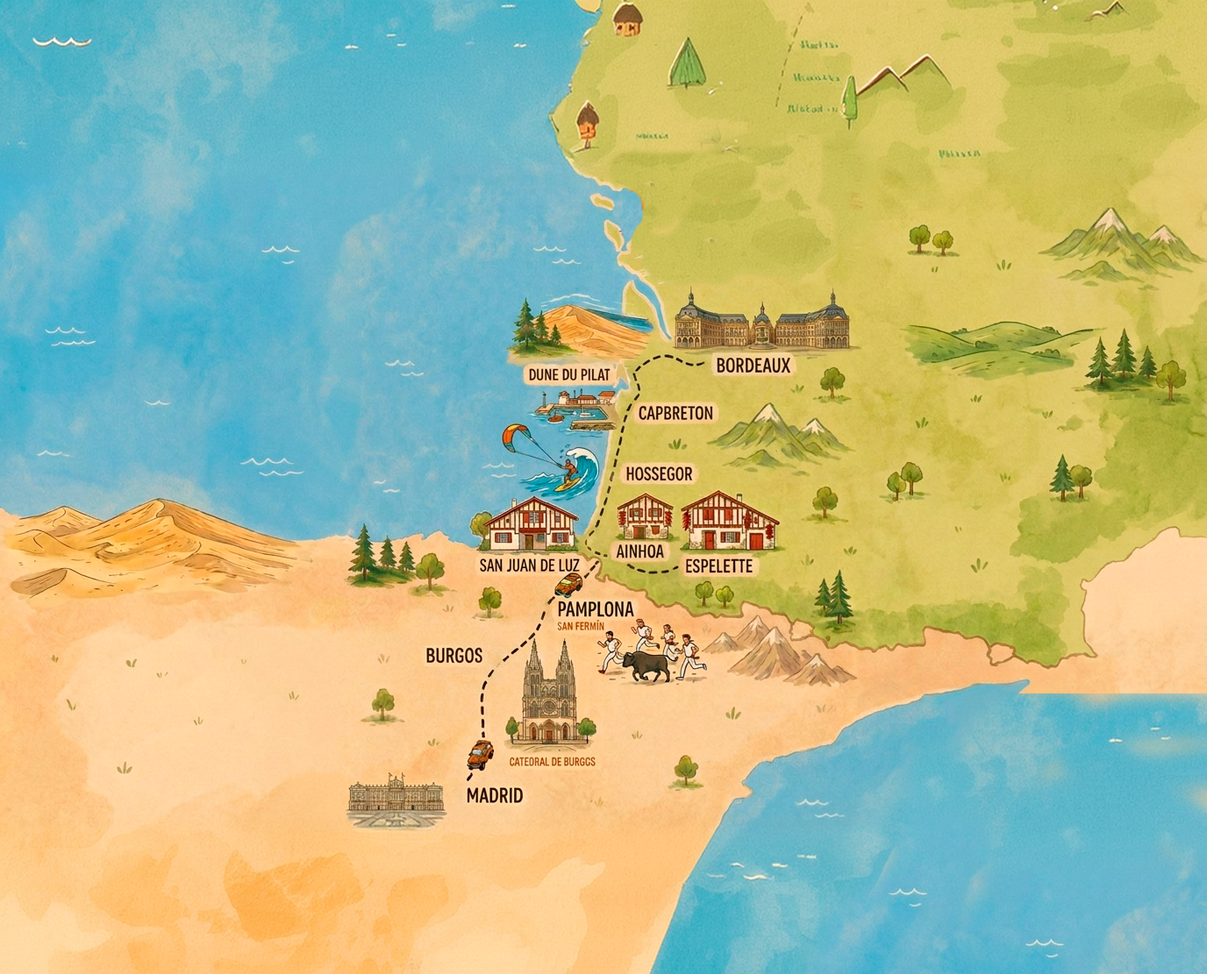
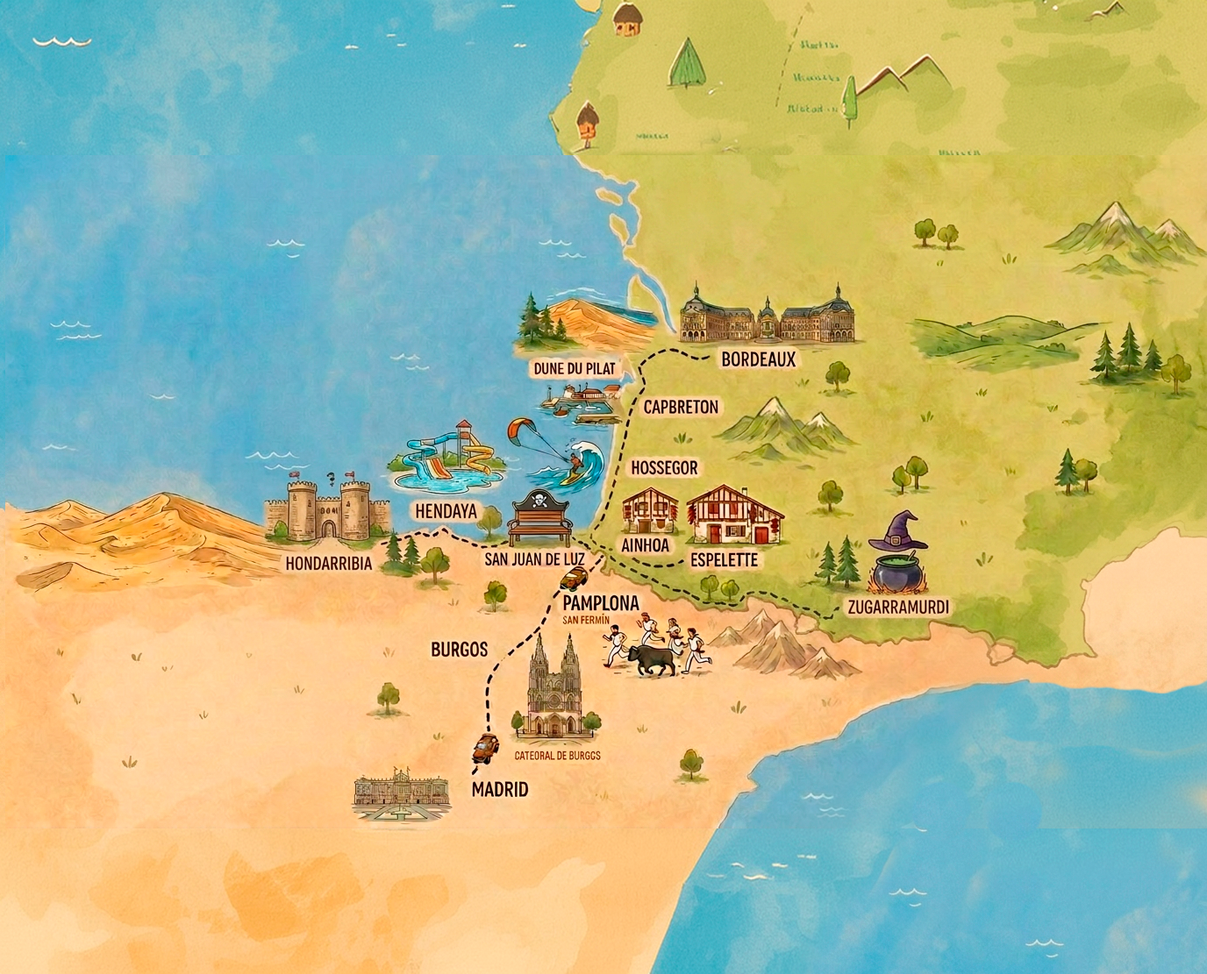
Mapa nuevo (13 lugares): +Hondarribia, Hendaya, Zugarramurdi; historias largas y 5+ actividades; premio red de voley 40/80; furgo en ruta; como llegar

diff --git a/index.html b/index.html
@@ -554,36 +554,57 @@ const PERSONAJES = [
    Orden del viaje: Madrid, Burgos, Pamplona, San Juan de Luz, Ainhoa, Espelette,
    Hossegor, Capbreton, Dune du Pilat, Bordeaux. */
 const PARADAS = [
-  {n:1, id:"madrid", nombre:"Madrid", pais:"España 🇪🇸", x:40, y:82, emoji:"👑", img:"img/parada-madrid.png",
-   historia:"El punto de salida. Capital de España desde 1561, cuando Felipe II trasladó aquí la corte. Su símbolo, el Palacio Real, es de los más grandes de Europa.",
-   actividades:[["🏰","Visitar el Palacio Real y ver el cambio de guardia."],["🚪","La Puerta de Alcalá y el Retiro."],["🍫","Chocolate con churros."]]},
-  {n:2, id:"burgos", nombre:"Burgos", pais:"España 🇪🇸", x:44, y:70, emoji:"⛪", img:"img/parada-burgos.png",
-   historia:"Su Catedral gótica es Patrimonio de la Humanidad y guarda la tumba del Cid Campeador, el caballero más legendario de España.",
-   actividades:[["⛪","Alucinar con las agujas de la Catedral de Burgos."],["🦴","Museo de la Evolución Humana (¡Atapuerca!)."],["🌭","Probar la morcilla de Burgos."]]},
-  {n:3, id:"pamplona", nombre:"Pamplona", pais:"España 🇪🇸", x:50, y:63, emoji:"🐂", img:"img/parada-pamplona.png",
-   historia:"Fundada por el general romano Pompeyo. Es mundialmente famosa por las fiestas de San Fermín (6–14 de julio) y sus encierros de toros por las calles.",
-   actividades:[["🐂","Ver la plaza y las calles del encierro de San Fermín."],["🧱","Pasear por las murallas y el casco viejo."],["🍢","Ir de pintxos por la calle Estafeta."]]},
-  {n:4, id:"sanjuan", nombre:"San Juan de Luz", pais:"Francia 🇫🇷", x:42, y:53, emoji:"🏴☠", img:"img/pirata.png",
+  {n:1, id:"madrid", nombre:"Madrid", pais:"España 🇪🇸", x:39, y:82, emoji:"👑", img:"img/parada-madrid.png",
+   historia:"<p>Madrid es el punto de salida de la aventura y la capital de España desde <b>1561</b>, cuando el rey <b>Felipe II</b> trasladó aquí la corte. Antes fue una pequeña fortaleza musulmana llamada <b>Mayrit</b>, levantada en el siglo IX junto al río Manzanares para vigilar la sierra. De aquel nombre árabe viene el de la ciudad.</p><div class='destacado'>“La única gran capital europea que nació como castillo de frontera”</div><p>Su gran símbolo es el <b>Palacio Real</b>, el palacio más grande de Europa Occidental, ¡con más de 3.400 habitaciones! Los reyes ya no viven en él, pero se usa para actos oficiales. A su lado están la Catedral de la Almudena y la Plaza de Oriente. En el corazón de la ciudad late la <b>Puerta del Sol</b>, con el reloj de las campanadas de Nochevieja y el ‘kilómetro cero’ de todas las carreteras de España.</p><p>Madrid presume de uno de los mejores museos del mundo, el <b>Prado</b>, y de un pulmón verde enorme, el parque de <b>El Retiro</b>, con un estanque para montar en barca. Su escudo es <b>el Oso y el Madroño</b>, que tiene su estatua en Sol. Los madrileños son famosos por su ambiente, sus terrazas y por no dormir casi nunca: aquí la vida sigue también de noche.</p>",
+   actividades:[["🏰","Visitar el Palacio Real y ver el cambio de guardia."],["🖼","Descubrir cuadros gigantes en el Museo del Prado."],["🚣","Montar en barca en el estanque de El Retiro."],["🐻","Buscar la estatua del Oso y el Madroño en la Puerta del Sol."],["🍫","Merendar chocolate con churros en San Ginés."],["🌭","Probar un bocata de calamares en la Plaza Mayor."]]},
+
+  {n:2, id:"burgos", nombre:"Burgos", pais:"España 🇪🇸", x:46, y:71, emoji:"⛪", img:"img/parada-burgos.png",
+   historia:"<p>Burgos fue durante siglos una de las ciudades más importantes de España. Nació en el año <b>884</b> como fortaleza para defender la frontera y llegó a ser <b>capital del reino de Castilla</b>. Por aquí pasa el <b>Camino de Santiago</b>, así que desde la Edad Media ha visto desfilar a miles de peregrinos.</p><div class='destacado'>“La ciudad del Cid y de una catedral de encaje de piedra”</div><p>Su joya es la <b>Catedral de Santa María</b>, una maravilla del gótico declarada <b>Patrimonio de la Humanidad</b>. Tardó siglos en construirse y sus dos agujas caladas parecen de encaje. Dentro está enterrado <b>Rodrigo Díaz de Vivar, el Cid Campeador</b>, el caballero más legendario de España, junto a su esposa Doña Jimena. También vive allí el <b>Papamoscas</b>, un curioso muñeco que abre la boca al dar las horas.</p><p>Burgos es tierra fría de meseta, por eso su comida es contundente y rica: la <b>morcilla de Burgos</b> (con arroz) es famosísima. Muy cerca están los yacimientos de <b>Atapuerca</b>, donde se hallaron los restos humanos más antiguos de Europa, de casi un millón de años. El <b>Museo de la Evolución Humana</b> lo cuenta con fósiles increíbles. Pasear por sus murallas y cruzar el Arco de Santa María es viajar a la época de los caballeros.</p>",
+   actividades:[["⛪","Alucinar con las agujas góticas de la Catedral."],["🦴","Ver fósiles en el Museo de la Evolución Humana (Atapuerca)."],["🕰","Pillar al Papamoscas abriendo la boca al dar la hora."],["🛡","Cruzar el Arco de Santa María y pasear por las murallas."],["🌭","Probar la morcilla de Burgos."],["🌳","Merendar en el Paseo del Espolón junto al río."]]},
+
+  {n:3, id:"pamplona", nombre:"Pamplona", pais:"España 🇪🇸", x:50, y:62, emoji:"🐂", img:"img/parada-pamplona.png",
+   historia:"<p>Pamplona (Iruña en euskera) es la capital de <b>Navarra</b> y tiene más de 2.000 años. La fundó el general romano <b>Pompeyo</b> en el año 74 a.C. y de su nombre viene el de la ciudad. Fue capital del <b>Reino de Navarra</b>, por eso está rodeada de impresionantes <b>murallas</b> y de la Ciudadela, una fortaleza con forma de estrella.</p><div class='destacado'>“Del 6 al 14 de julio la ciudad no duerme: ¡son los Sanfermines!”</div><p>Pamplona es mundialmente famosa por las fiestas de <b>San Fermín</b>. Empiezan con el <b>chupinazo</b> (un cohete) el 6 de julio y durante nueve días todo se llena de gente vestida de blanco con pañuelo rojo. Lo más conocido es el <b>encierro</b>: cada mañana a las 8, los toros corren por las calles del casco viejo persiguiendo a los mozos hasta la plaza. Dura poco más de dos minutos, ¡pura adrenalina! El escritor <b>Ernest Hemingway</b> se enamoró de estas fiestas y las hizo famosas en el mundo entero.</p><p>Fuera de fiestas, Pamplona es una ciudad verde, tranquila y muy agradable, con parques enormes y un casco antiguo lleno de bares de <b>pintxos</b>. La catedral gótica, la Plaza del Castillo y la calle Estafeta (por donde pasa el encierro) son visita obligada. Y como está en pleno Camino de Santiago, siempre te cruzas con peregrinos.</p>",
+   actividades:[["🐂","Recorrer a pie las calles del encierro de San Fermín."],["⭐","Explorar la Ciudadela con forma de estrella y sus murallas."],["🍢","Ir de pintxos por la calle Estafeta y la Plaza del Castillo."],["⛪","Visitar la Catedral y su claustro gótico."],["🟥","Comprar un pañuelo rojo de recuerdo."],["🦌","Pasear por el parque de la Taconera y ver sus ciervos."]]},
+
+  {n:4, id:"zugarramurdi", nombre:"Zugarramurdi", pais:"España 🇪🇸 · Navarra", x:74, y:56, emoji:"🧙♀", img:"img/parada-zugarramurdi.png",
+   historia:"<p>Zugarramurdi es un pueblecito de Navarra, muy cerca de la frontera con Francia, conocido en todo el mundo como <b>el pueblo de las brujas</b>. Aquí ocurrió en <b>1610</b> uno de los procesos de brujería más famosos de la Inquisición española: muchos vecinos fueron acusados de reunirse con el diablo en <b>aquelarres</b> (‘akelarre’, que en euskera significa ‘prado del macho cabrío’).</p><div class='destacado'>“A sus cuevas las llamaban ‘la catedral del diablo’”</div><p>Según las leyendas, las <b>sorginak</b> (brujas) se reunían de noche en las <b>Cuevas de Zugarramurdi</b>, un impresionante túnel natural de 120 metros excavado por el arroyo <b>Olabidea</b>, apodado ‘la regata del infierno’. Bailaban, hacían pócimas y encendían una gran hoguera. En realidad casi todo fueron habladurías y miedos de la época: en el Auto de Fe de <b>Logroño</b> varias personas fueron condenadas injustamente. Por suerte, un inquisidor sensato, <b>Alonso de Salazar</b>, demostró que no había pruebas y aquella caza de brujas no se repitió.</p><p>Hoy Zugarramurdi celebra su historia con orgullo y sin miedo. Tiene un <b>Museo de las Brujas</b> que explica qué pasó de verdad, y cada verano, en la noche del solsticio, hace una gran fiesta, el <b>Zikiro Jate</b>, donde se asa cordero en las cuevas. Pasear por el pueblo, entre caseríos de piedra y montañas verdes, es como entrar en un cuento… con un puntito de misterio.</p>",
+   actividades:[["🦇","Explorar las Cuevas de Zugarramurdi, la ‘catedral del diablo’."],["🧙♀","Descubrir la verdad en el Museo de las Brujas."],["🔥","Imaginar un akelarre alrededor de la gran hoguera."],["🥾","Hacer la ruta de los molinos por el arroyo del Infierno."],["🐑","Probar el cordero asado (zikiro) típico del pueblo."],["📸","Fotografiar los caseríos de piedra entre montañas."]]},
+
+  {n:5, id:"hondarribia", nombre:"Hondarribia", pais:"España 🇪🇸 · País Vasco", x:27, y:54, emoji:"🏰", img:"img/parada-hondarribia.png",
+   historia:"<p>Hondarribia (Fuenterrabía) es una preciosa villa marinera de Gipuzkoa, en la desembocadura del río <b>Bidasoa</b>, que hace de frontera con Francia; al otro lado se ve Hendaya. Su nombre en euskera significa ‘vado de arena’. Durante siglos fue una <b>plaza fuerte</b> y, por su posición fronteriza, sufrió muchos asedios: por eso está rodeada de <b>murallas</b> y baluartes.</p><div class='destacado'>“Un castillo de emperador convertido hoy en hotel”</div><p>En lo más alto del casco antiguo, en la <b>Plaza de Armas</b>, se levanta el <b>Castillo de Carlos V</b>, una fortaleza con más de mil años de historia: la empezaron los reyes de Navarra y la amplió el emperador Carlos V. Hoy es un <b>Parador</b> (un hotel de lujo). El casco histórico, declarado Conjunto Monumental, es un laberinto de calles empedradas con casas de balcones de madera y escudos de piedra, uno de los más bonitos del País Vasco.</p><p>Abajo, junto al puerto, está el <b>barrio de la Marina</b>, el rincón más fotografiado: casitas de pescadores estrechas y altas, pintadas de colores vivos con balcones llenos de flores. Antes vivían allí los pescadores; hoy es una fila de bares de pintxos y restaurantes de pescado fresco. Hondarribia tiene además una playa tranquila y puedes cruzar en barquita hasta Hendaya en un momento.</p>",
+   actividades:[["🏰","Subir al Castillo de Carlos V y la Plaza de Armas."],["🎨","Fotografiar las casas de colores del barrio de la Marina."],["🧱","Pasear por las murallas y las puertas del casco antiguo."],["🍢","Comer pintxos de pescado junto al puerto."],["⛵","Cruzar en barca el Bidasoa hasta Hendaya."],["🏖","Bañarse en la playa de Hondarribia."]]},
+
+  {n:6, id:"hendaya", nombre:"Hendaya", pais:"Francia 🇫🇷", x:37, y:50, emoji:"🌊", img:"img/parada-hendaya.png",
+   historia:"<p>Hendaya (Hendaye) es la primera ciudad francesa nada más cruzar el río <b>Bidasoa</b> desde Hondarribia. Es famosa por tener la <b>playa más larga de la Costa Vasca francesa</b>: más de 3 kilómetros de arena dorada y olas suaves, perfecta para aprender a surfear y para los más peques.</p><div class='destacado'>“Aquí Franco le dijo ‘no’ a Hitler dentro de un tren”</div><p>Hendaya guarda un episodio histórico curioso: el <b>23 de octubre de 1940</b>, en plena Segunda Guerra Mundial, <b>Hitler y Franco</b> se reunieron dentro de un vagón de tren en la estación de Hendaya. Hitler quería que España entrara en la guerra, pero tras horas de conversación no llegaron a un acuerdo y España se quedó fuera. Se cuenta que el tren de Franco llegó una hora tarde… ¡e hizo esperar al mismísimo Hitler!</p><p>El otro gran tesoro es el <b>Castillo de Abbadia</b>, una mansión de aspecto de cuento construida entre 1864 y 1879 por el arquitecto <b>Viollet-le-Duc</b> (el mismo que restauró Notre-Dame de París). La mandó levantar <b>Antoine d’Abbadie</b>, un explorador y científico algo excéntrico enamorado de África y de las estrellas: por eso el castillo tiene observatorio, cocodrilos y elefantes tallados y frases en muchos idiomas por las paredes. Entre la playa enorme y el castillo mágico, Hendaya es una parada muy divertida.</p>",
+   actividades:[["🏄","Aprender a surfear en su playa de 3 km."],["🏰","Visitar el mágico Castillo de Abbadia y su observatorio."],["🏖","Construir castillos de arena en la playa más larga de la costa."],["🚂","Ver la estación donde se reunieron Franco y Hitler."],["⛵","Pasear por el puerto y la bahía de Txingudi."],["🐦","Observar aves en la reserva natural de la bahía."]]},
+
+  {n:7, id:"sanjuan", nombre:"San Juan de Luz", pais:"Francia 🇫🇷", x:44, y:54, emoji:"🏴☠", img:"img/pirata.png",
    historia:"San Juan de Luz nació en el siglo XI dedicado al mar y a la caza de ballenas. En el siglo XVII, con menos capturas y la competencia inglesa y holandesa, muchos pescadores se reinventaron como <b>corsarios</b>: marineros que, con permiso del rey, podían apoderarse de los barcos enemigos y repartirse el botín. El más famoso fue <b>Coursic</b>, que capturó más de cien barcos y aterró a españoles, ingleses y holandeses. Por eso muchas calles llevan hoy el nombre de aquellos corsarios.<div class='destacado'>“Una boda real en la ciudad puso fin a una guerra”</div>El 7 de noviembre de 1659, en la isla de los Faisanes, se firmó el <b>Tratado de los Pirineos</b>, que acabó con años de guerra entre Francia y España. Para sellar la paz se casó al rey <b>Luis XIV</b> con <b>María Teresa</b>, hija del rey de España, aquí en San Juan de Luz en junio de 1660. Después llegó la aristocracia inglesa a veranear, con elegantes mansiones y hoteles con electricidad y agua caliente… ¡todo un lujo para la época!",
    actividades:[["🏖","Bañarse en su playa protegida y calmada."],["🏠","Ver las casas vascas de entramado rojo."],["🍰","Probar el auténtico gâteau basque."]]},
-  {n:5, id:"ainhoa", nombre:"Ainhoa", pais:"Francia 🇫🇷", x:50, y:56, emoji:"🏡", img:"img/parada-ainhoa.png",
-   historia:"Catalogado como uno de 'Los pueblos más bonitos de Francia'. Es una única calle larga con casas blancas de vigas rojas y verdes de los siglos XVII y XVIII.",
-   actividades:[["📸","Fotos entre casas de cuento."],["⛪","Ver su iglesia y el frontón de pelota vasca."],["🚶","Pasear tranquilos, sin coches."]]},
-  {n:6, id:"espelette", nombre:"Espelette", pais:"Francia 🇫🇷", x:57, y:58, emoji:"🌶", img:"img/parada-espelette.png",
-   historia:"El pueblo del famoso pimiento. El chile llegó de América en el s.XVI y aquí es oro rojo: en otoño las fachadas se cubren de ristras secándose al sol.",
-   actividades:[["🌶","Fachadas cubiertas de pimientos rojos."],["🛍","Comprar especias y mermeladas típicas."],["🧀","Queso de oveja con mermelada de cereza negra."]]},
-  {n:7, id:"hossegor", nombre:"Hossegor", pais:"Francia 🇫🇷", x:52, y:48, emoji:"🏄", img:"img/parada-hossegor.png",
-   historia:"La capital europea del surf: aquí se celebran campeonatos del mundo. Tiene además un lago marino ideal para los más peques.",
-   actividades:[["🏄","Ver (o probar) el surf en sus olas famosas."],["🛶","Baño tranquilo en el lago marino."],["🛹","Skate y tiendas de surf por todas partes."]]},
-  {n:8, id:"capbreton", nombre:"Capbreton", pais:"Francia 🇫🇷", x:54, y:42, emoji:"⚓", img:"img/parada-capbreton.png",
-   historia:"Puerto pesquero animado. Frente a su costa está 'le Gouf', un cañón submarino gigante de más de 3.000 m de profundidad que empieza casi en la playa.",
-   actividades:[["🐟","Ver la lonja y el mercado del pescado."],["🚶","Pasear por el espigón hasta el faro."],["🍦","Helado viendo entrar los barcos."]]},
-  {n:9, id:"dune", nombre:"Dune du Pilat", pais:"Francia 🇫🇷", x:47, y:33, emoji:"🏜", img:"img/parada-dune.png",
-   historia:"¡La duna de arena más alta de Europa, unos 110 m! Una montaña de playa que avanza poco a poco tierra adentro empujada por el viento.",
-   actividades:[["🧗","Subir a lo alto de la duna gigante."],["🌅","Vistas al banco de Arguin y al océano."],["🪂","Ver parapentes despegar desde la cima."]]},
-  {n:10, id:"burdeos", nombre:"Bordeaux", pais:"Francia 🇫🇷", x:60, y:35, emoji:"🍇", img:"img/parada-burdeos.png",
-   historia:"El final del viaje. La 'perla de Aquitania', famosa por su vino y su elegante centro histórico, Patrimonio de la Humanidad.",
-   actividades:[["🪞","El Miroir d'eau frente a la Place de la Bourse."],["🍇","La Cité du Vin, el museo del vino."],["🍮","Probar los canelés, el dulce típico."]]}
+
+  {n:8, id:"ainhoa", nombre:"Ainhoa", pais:"Francia 🇫🇷", x:53, y:54, emoji:"🏡", img:"img/parada-ainhoa.png",
+   historia:"<p>Ainhoa parece un pueblo sacado de un cuento. Está catalogado entre ‘<b>Los pueblos más bonitos de Francia</b>’ y es un ejemplo perfecto de arquitectura vasca del Labourd. Lo fundaron en los siglos XII-XIII los monjes <b>premostratenses</b> como una <b>bastida</b> (pueblo planificado) para acoger a los peregrinos que iban a Santiago de Compostela.</p><div class='destacado'>“Una sola calle larga… ¡y toda de postal!”</div><p>El pueblo es básicamente una <b>única calle</b> bordeada de <b>casas de entramado</b>: fachadas blancas con vigas de madera pintadas de rojo y verde. Casi todas son de los siglos XVII y XVIII, porque el pueblo fue destruido en las guerras entre Francia, Inglaterra y Navarra y se reconstruyó después. Muchas casas tienen grabados en el dintel la fecha y el nombre de la familia que las construyó. La iglesia, con su galería de madera y un retablo dorado de influencia española, es preciosa. Y hay un <b>frontón</b>, porque no hay pueblo vasco sin su cancha de pelota.</p><p>Subiendo un poco por el monte Atxulai se llega a la <b>capilla de la Aubépine</b> (Nuestra Señora del Espino), con vistas impresionantes de las montañas vascas y, en días claros, hasta del océano. Dicen que allí se apareció la Virgen a un pastor entre un espino. Ainhoa es el sitio ideal para pasear tranquilos, sin coches, respirando aire de montaña.</p>",
+   actividades:[["📸","Fotografiar la calle de casas blancas y rojas de cuento."],["⛪","Ver el retablo dorado y la galería de madera de la iglesia."],["🥾","Subir a la capilla de la Aubépine por sus vistas."],["🎾","Ver o jugar un partido en el frontón de pelota vasca."],["🏠","Buscar las fechas antiguas grabadas en los dinteles."],["🧀","Probar el queso de oveja y el pastel vasco."]]},
+
+  {n:9, id:"espelette", nombre:"Espelette", pais:"Francia 🇫🇷", x:60, y:54, emoji:"🌶", img:"img/parada-espelette.png",
+   historia:"<p>Espelette es un pueblo vasco famoso en todo el mundo por una sola cosa: su <b>pimiento rojo</b>, el <b>piment d’Espelette</b>. El chile llegó de <b>América</b> en el siglo XVI y aquí encontró el clima perfecto. Al principio se usaba como medicina y para conservar el jamón; luego se convirtió en la especia estrella de la cocina vasca. Es tan importante que tiene <b>Denominación de Origen</b>, como si fuera un gran vino.</p><div class='destacado'>“En otoño, las casas se visten de rojo”</div><p>La imagen más famosa del pueblo son sus <b>fachadas cubiertas de ristras de pimientos</b> secándose al sol de septiembre y octubre. Las casas blancas de entramado se llenan de guirnaldas rojas y todo huele a pimiento. En octubre se celebra la gran <b>Fiesta del Pimiento</b>, con desfiles, música y cocineros de toda la región. Con este pimiento se hace de todo: polvo para cocinar, mermeladas, chocolate picante e incluso… ¡helado!</p><p>Además del pimiento, Espelette tiene mucho encanto: un <b>castillo</b> medieval que hoy es el ayuntamiento, una iglesia con su torre y un cementerio de <b>estelas vascas</b> (unas lápidas redondas muy antiguas). Por sus prados corren los <b>pottok</b>, unos caballitos salvajes típicos del País Vasco. Pasear por Espelette es un festival para los ojos, la nariz y el paladar.</p>",
+   actividades:[["🌶","Ver las fachadas cubiertas de ristras de pimientos."],["🛍","Comprar especias, mermeladas y chocolate de pimiento."],["🏰","Visitar el castillo medieval (hoy ayuntamiento)."],["🐴","Buscar los pottok, los caballitos salvajes vascos."],["🍫","Probar chocolate o helado con un toque picante."],["⛪","Ver las estelas vascas del cementerio de la iglesia."]]},
+
+  {n:10, id:"hossegor", nombre:"Hossegor", pais:"Francia 🇫🇷", x:55, y:48, emoji:"🏄", img:"img/parada-hossegor.png",
+   historia:"<p>Hossegor (Soorts-Hossegor) es la <b>capital europea del surf</b>. Está en la región de las <b>Landas</b>, una costa larguísima de playas de arena y bosques de pinos. Sus olas son tan buenas y potentes que aquí se celebran <b>campeonatos del mundo</b> de surf, y en verano se llena de surfistas de todo el planeta.</p><div class='destacado'>“La ola perfecta nace en un cañón submarino gigante”</div><p>El secreto de sus olas está bajo el mar: muy cerca de la orilla empieza el <b>Gouf de Capbreton</b>, un cañón submarino enorme que hace que las olas lleguen con muchísima fuerza a la playa de <b>La Nord</b>, una de las más míticas del mundo del surf. Pero no todo son olas bravas: Hossegor tiene también un <b>lago marino</b> (‘lac marin’) de aguas tranquilas que sube y baja con la marea, ideal para que se bañen los más pequeños, montar en canoa o pasear en bici alrededor.</p><p>Hossegor nació a principios del siglo XX como una elegante <b>ciudad-jardín</b>, con chalets de estilo vasco-landés escondidos entre los pinos. Hoy es a la vez chic y deportiva: tiendas de surf y skate por todas partes, mercados, ostras de la zona y muchísima naturaleza. Es el paraíso para pasar el día entre el bosque, el lago y el océano.</p>",
+   actividades:[["🏄","Ver a los mejores surfistas en la playa de La Nord."],["🛶","Bañarse o remar en canoa por el lago marino."],["🚲","Pasear en bici por los bosques de pinos de las Landas."],["🛹","Curiosear en las tiendas de surf y skate."],["🦪","Probar las ostras y el marisco de la zona."],["🌅","Ver la puesta de sol sobre el Atlántico."]]},
+
+  {n:11, id:"capbreton", nombre:"Capbreton", pais:"Francia 🇫🇷", x:56, y:42, emoji:"⚓", img:"img/parada-capbreton.png",
+   historia:"<p>Capbreton es el <b>único puerto pesquero de las Landas</b> y el hermano tranquilo y familiar del elegante Hossegor, con el que casi se da la mano. Durante siglos, el río <b>Adour</b> desembocaba aquí, lo que convirtió a Capbreton en un puerto importante… hasta que en el siglo XVI el río cambió de curso y se marchó hacia Bayona.</p><div class='destacado'>“Frente a su playa se esconde un cañón de 4.000 metros”</div><p>Lo más asombroso de Capbreton no se ve: es el <b>Gouf</b>, un <b>cañón submarino gigantesco</b> que empieza a pocos metros de la orilla y baja hasta unos <b>4.000 metros</b> de profundidad. Es rarísimo que un cañón así arranque tan cerca de la costa (solo pasa en el 3% de los casos del mundo). En sus aguas profundas viven tiburones, delfines y hasta cachalotes, y es el responsable de las grandes olas de la zona. Los científicos aún discuten si lo formó un antiguo río de la Edad de Hielo o una falla de los Pirineos.</p><p>El símbolo del pueblo es su <b>estacada</b> (‘l’estacade’), un largo muelle de madera de unos 200 metros construido en tiempos de <b>Napoleón III</b> para guiar a los barcos. Pasear hasta su faro al atardecer es el plan estrella. En el puerto se puede ver la vuelta de los pesqueros, comprar pescado fresquísimo y comer al lado del agua. Capbreton es puro ambiente marinero y de vacaciones en familia.</p>",
+   actividades:[["🚶","Pasear por la estacada de madera hasta el faro."],["🐟","Ver la lonja y comprar pescado fresco en el puerto."],["🦈","Aprender sobre el cañón del Gouf y su fauna (tiburones y cachalotes)."],["🏖","Bañarse en sus playas familiares."],["🍦","Tomar un helado viendo entrar los barcos."],["🚲","Recorrer el paseo marítimo en bici."]]},
+
+  {n:12, id:"dune", nombre:"Dune du Pilat", pais:"Francia 🇫🇷", x:47, y:35, emoji:"🏜", img:"img/parada-dune.png",
+   historia:"<p>La <b>Dune du Pilat</b> (o Dune du Pyla) es la <b>duna de arena más alta de Europa</b>: mide unos <b>110 metros</b> de altura (¡como un edificio de 35 pisos!), casi 3 km de largo y 600 m de ancho. Está en la <b>bahía de Arcachon</b>, cerca de Burdeos, y contiene unos 55 millones de metros cúbicos de arena. Es como una montaña de playa en medio del bosque.</p><div class='destacado'>“La duna está viva: camina hacia el bosque cada año”</div><p>Lo más increíble es que la duna <b>se mueve</b>: el viento del océano empuja la arena tierra adentro entre 1 y 5 metros cada año, tapando poco a poco los pinos del bosque que tiene detrás. Por eso decimos que es una duna ‘viva’. Subir hasta arriba cuesta un poco (en verano hay una escalera), pero la recompensa es enorme: a un lado, el <b>bosque de las Landas</b> verde hasta el horizonte; al otro, el océano Atlántico, el <b>banco de Arguin</b> (un islote de arena lleno de aves) y la punta del Cap Ferret.</p><p>Desde la cima, muchos valientes despegan en <b>parapente</b>, porque el viento y la altura son perfectos. Bajar corriendo por la ladera de arena hacia el mar es de las cosas más divertidas que se pueden hacer. Eso sí: en verano la arena quema, mejor llevar calzado y agua. La Dune du Pilat es pura naturaleza a lo grande.</p>",
+   actividades:[["🧗","Subir a lo alto de la duna gigante."],["🏃","Bajar corriendo la ladera de arena hasta el mar."],["🪂","Ver (o probar) el parapente desde la cima."],["🌅","Contemplar el banco de Arguin y el Cap Ferret."],["🌲","Pasear por el bosque de pinos de la base."],["💧","Llevar agua y calzado: ¡la arena quema en verano!"]]},
+
+  {n:13, id:"burdeos", nombre:"Bordeaux", pais:"Francia 🇫🇷", x:62, y:34, emoji:"🍇", img:"img/parada-burdeos.png",
+   historia:"<p>Burdeos (Bordeaux) es el gran final del viaje: la elegante capital de <b>Aquitania</b> y una de las ciudades más bonitas de Francia. Está a orillas del río <b>Garona</b> y su centro histórico es tan armonioso que está declarado <b>Patrimonio de la Humanidad</b> por la UNESCO. La llaman ‘la <b>Perla de Aquitania</b>’ y también ‘la ciudad de piedra’, por sus edificios dorados del siglo XVIII.</p><div class='destacado'>“La capital mundial del vino tiene un espejo de agua gigante”</div><p>Burdeos es famosa en el mundo entero por su <b>vino</b>: alrededor hay miles de viñedos (Médoc, Saint-Émilion…) y aquí está la <b>Cité du Vin</b>, un museo futurista con forma de decantador. La plaza más impresionante es la <b>Place de la Bourse</b>, y justo delante está el <b>Miroir d’eau</b>, el ‘espejo de agua’ más grande del mundo: una lámina finísima de agua sobre el suelo que refleja los edificios y que cada poco lanza <b>niebla</b>. En verano los niños se lo pasan en grande chapoteando allí.</p><p>Pasear por Burdeos es un lujo: la larguísima <b>rue Sainte-Catherine</b> (una de las calles peatonales más largas de Europa), la catedral donde se casó Leonor de Aquitania, los tranvías silenciosos y los muelles junto al río. Y para merendar, nada como un <b>canelé</b>, el dulce típico: pequeño, tostado por fuera y blandito por dentro. Un broche de oro para la aventura.</p>",
+   actividades:[["🪞","Chapotear en el Miroir d’eau frente a la Place de la Bourse."],["🍇","Visitar la Cité du Vin, el museo del vino."],["🚋","Pasear en tranvía y por la rue Sainte-Catherine."],["🍮","Merendar canelés, el dulce típico de Burdeos."],["⛪","Ver la catedral de San Andrés y la torre Pey-Berland."],["🚢","Dar un paseo en barco por el río Garona."]]}
 ];
 
 /* ======================================================================
@@ -785,14 +806,17 @@ const GPS={
   madrid:[40.4179,-3.7143],
   burgos:[42.3405,-3.7043],
   pamplona:[42.8189,-1.6438],
-  sanjuan:[43.3876917,-1.6653350], // ubicación exacta del edificio
+  zugarramurdi:[43.2647,-1.5347],
+  hondarribia:[43.3625,-1.7920],
+  hendaya:[43.3745,-1.7739],
+  sanjuan:[43.3876917,-1.6653350],
   ainhoa:[43.3067,-1.4989],
   espelette:[43.3444,-1.4447],
   hossegor:[43.6620,-1.3956],
   capbreton:[43.6425,-1.4300],
   dune:[44.5883,-1.2117],
   burdeos:[44.8412,-0.5700]
-};
+}
 // Foto del edificio a fotografiar en cada parada (todas subidas a img/)
 const OBJETIVO={ sanjuan:'img/sanjuan.jpg' };
 // Enlace de Google Maps "cómo llegar" de cada parada
